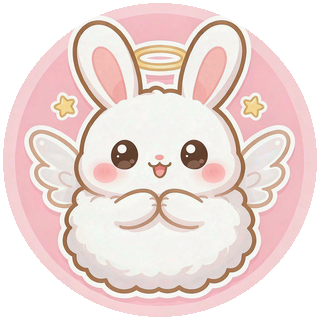
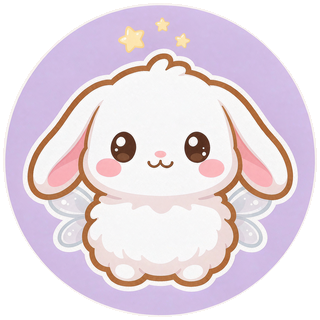
fix(助手): 头像更正为淡紫底小翅膀版（上次误用淡粉底版）

diff --git a/data.js b/data.js
@@ -2344,7 +2344,7 @@ const faqData = [
 ];
 const CARD_COLORS = ['purple','green','blue','amber','pink','coral'];
 
-const ASST_SPRITE = '<img src="attachments/asst-avatar-new.png?v=20261023" alt="HR小助手" style="width:100%;height:100%;object-fit:contain;border-radius:50%;">';
+const ASST_SPRITE = '<img src="attachments/asst-avatar-new.png?v=20261023b" alt="HR小助手" style="width:100%;height:100%;object-fit:contain;border-radius:50%;">';
 
 const INTENT_DEFS = [
   {
